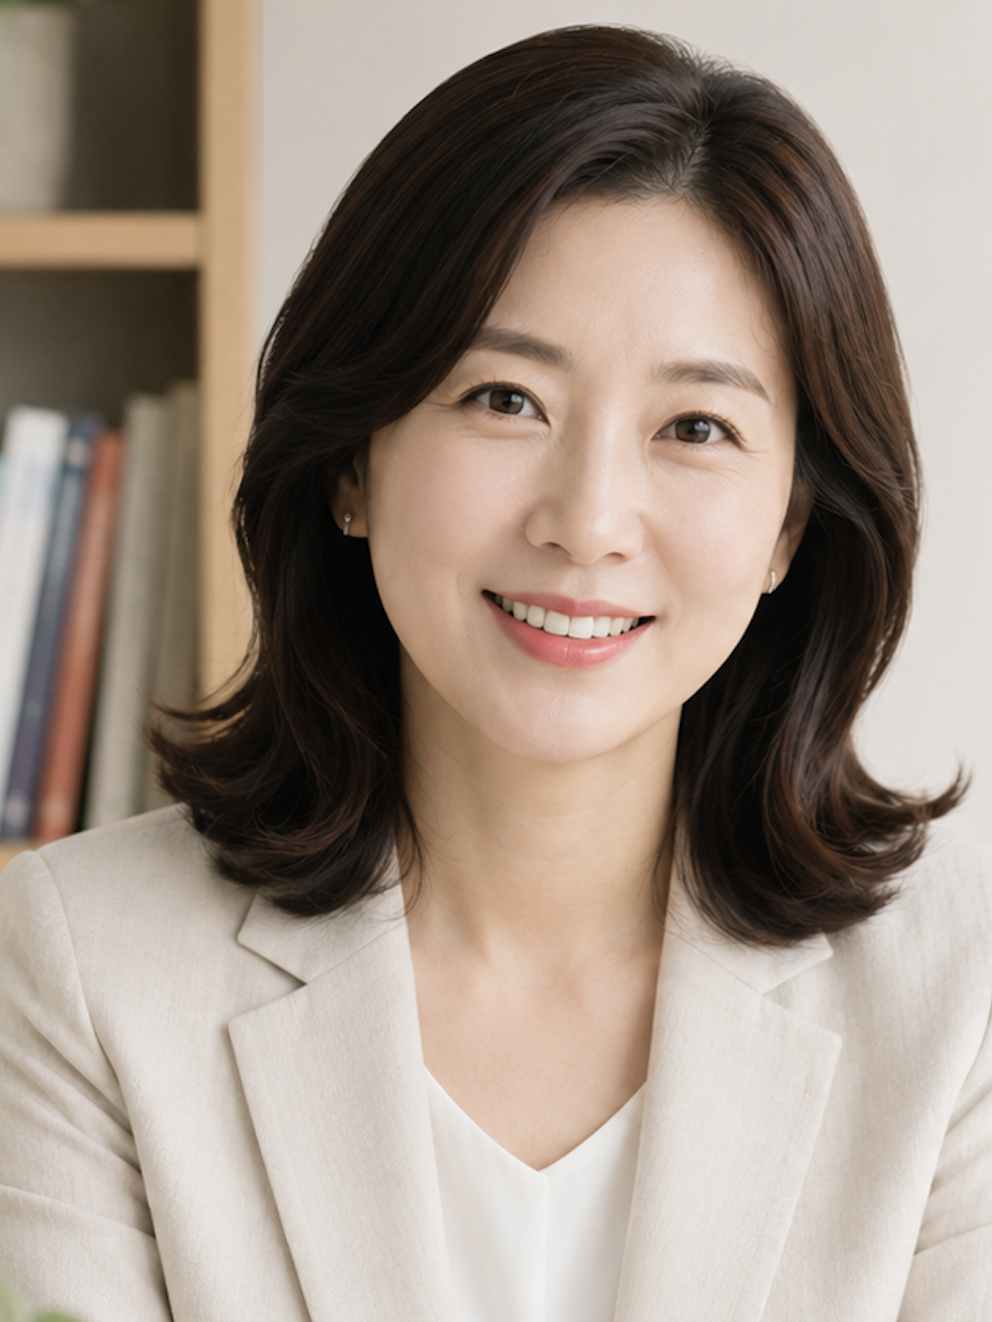
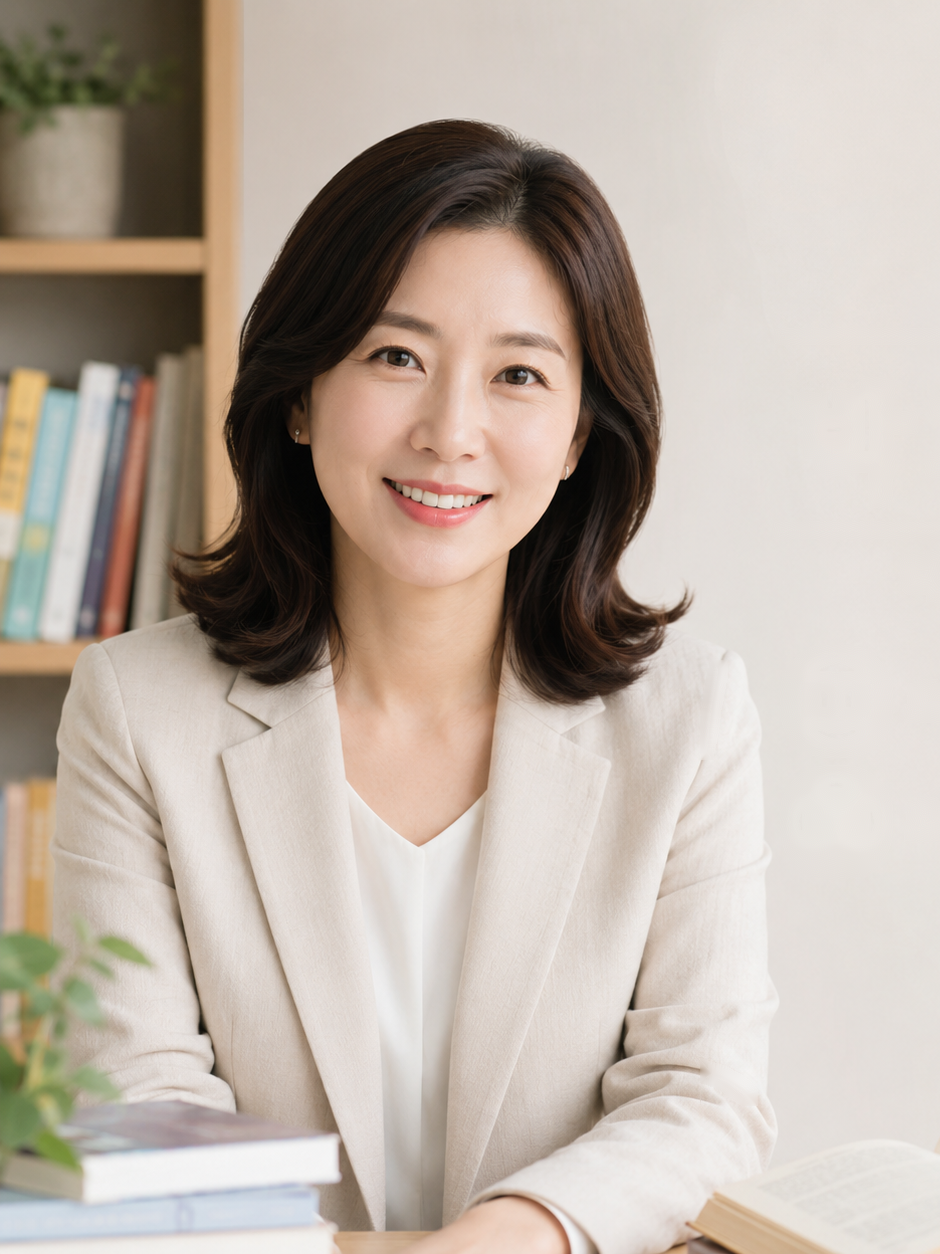
박지연 사진 교체 (글씨제거본, 3:4 크롭, 얼굴 중앙)

diff --git a/pentacampus/instructors.html b/pentacampus/instructors.html
@@ -210,7 +210,7 @@
 
       <!-- 박지연 -->
       <div class="icard rv d2">
-        <div class="icard-photo zoom-80"><img src="images/instructors/park-jiyeon.png" alt="박지연"></div>
+        <div class="icard-photo"><img src="images/instructors/park-jiyeon.png?v=2" alt="박지연"></div>
         <div class="icard-body">
           <div class="icard-role">독서교육 전문가</div>
           <div class="icard-name">박지연</div>
